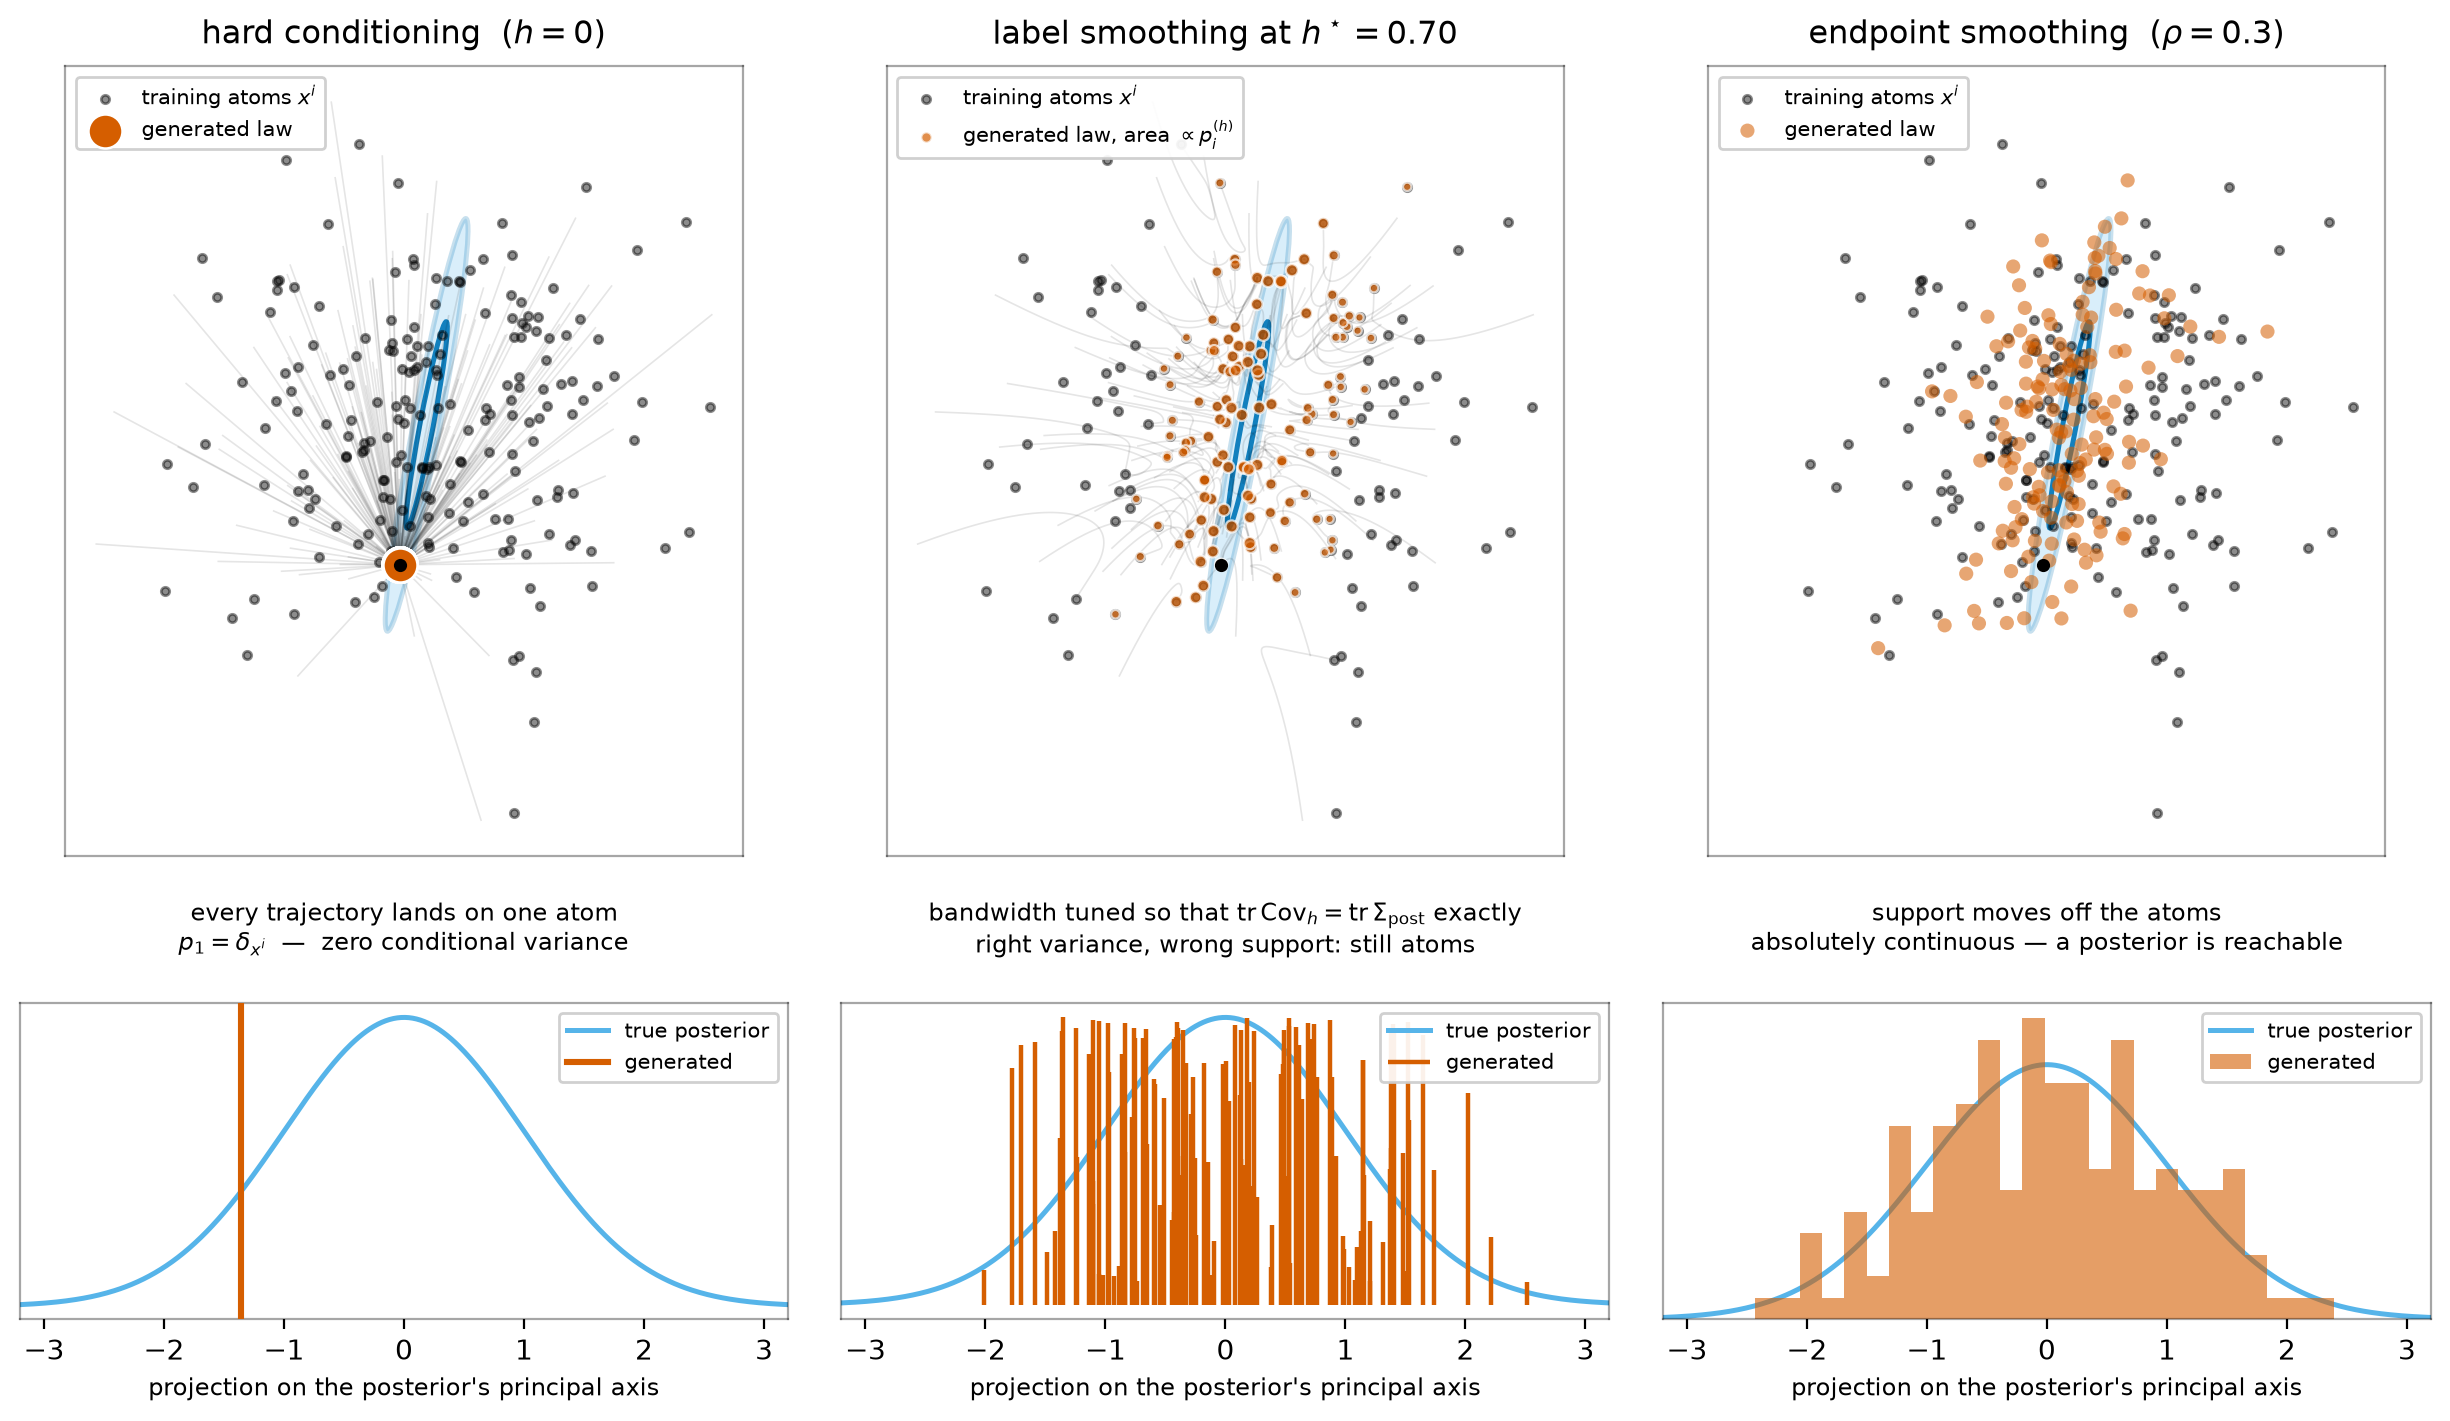
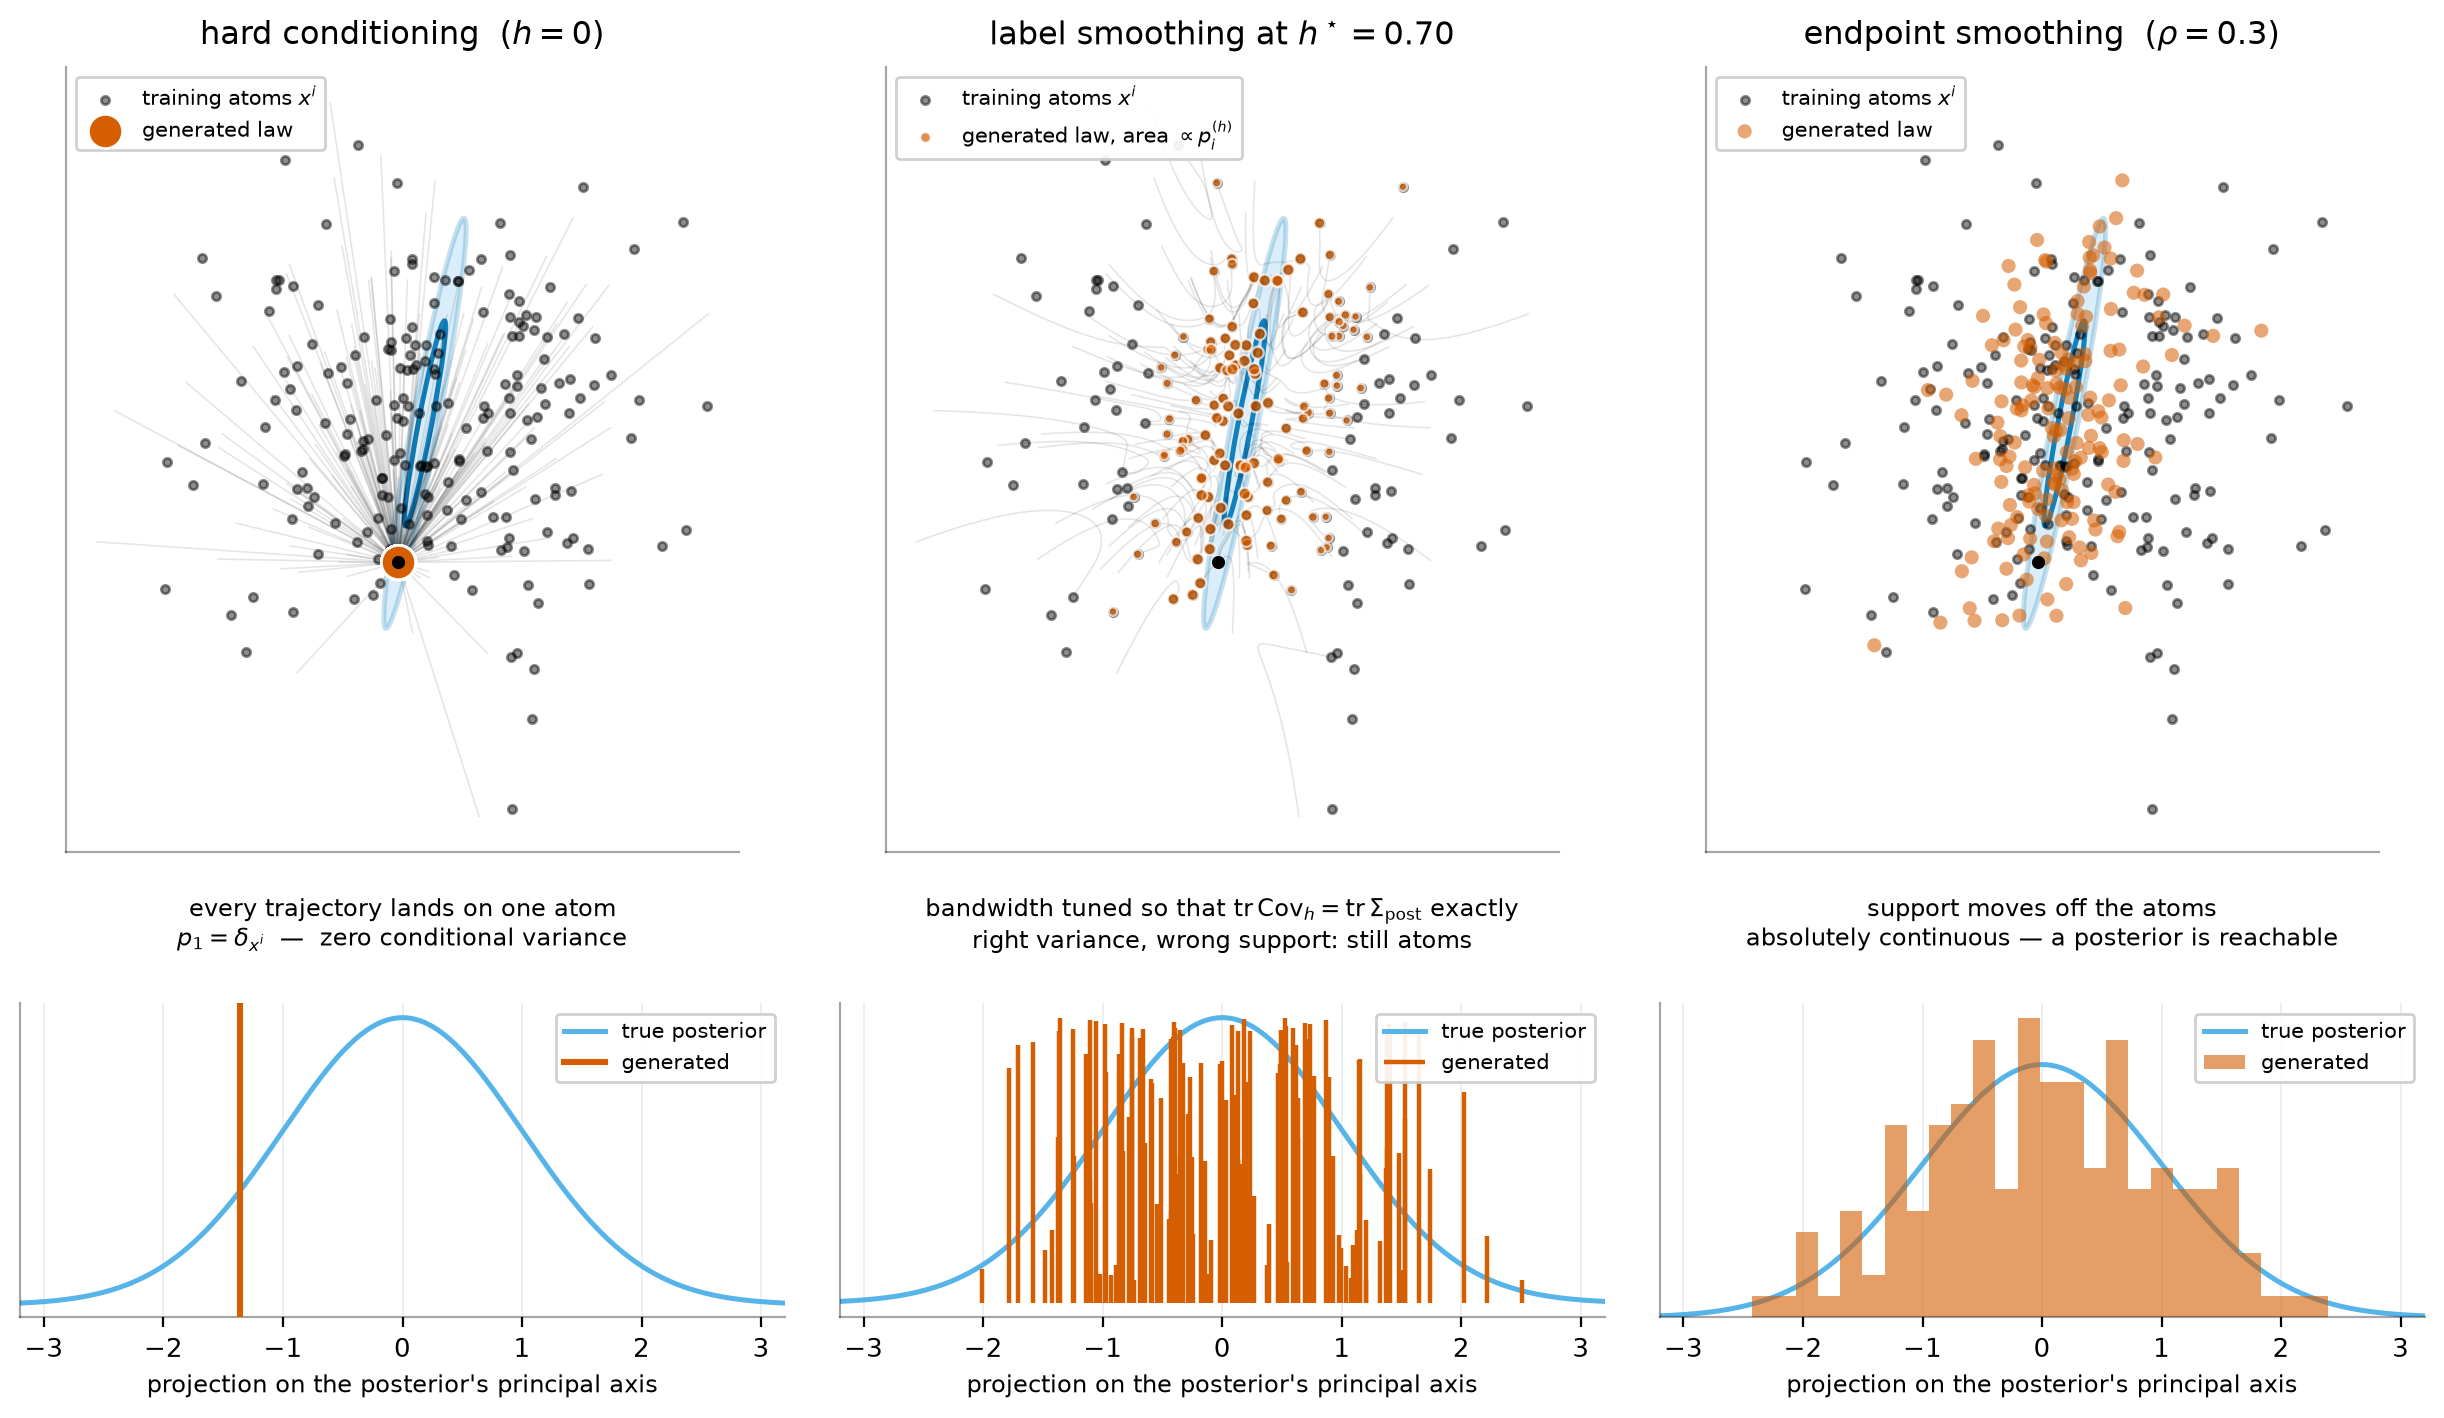
Put the mechanism and factorisation figure scripts on the shared style
Both need torch, so they were not touched with the others; torch runs here with uv's
PyPI wheel. They reproduce their numbers (h* = 0.7030, tr Cov_h = tr Sigma_post = 1.0040)
and keep their framed legends. Both regenerated figures were read by eye.

beta_trajectory.py stays as it was. It re-evaluates the DDPM checkpoints, which are not kept,
and when they are missing it overwrites results/exp3/_cifar_ddpm/beta_trajectory.json and
its figure with empty ones; running it to migrate it did that, and both were restored from
git. The README says not to run it here.

diff --git a/scripts/make_mechanism_figure.py b/scripts/make_mechanism_figure.py
@@ -40,6 +40,16 @@ import torch
 from src.metrics.kernel_theory import kernel_field, kernel_weights, kernel_moments
 from src.problems.linear_gaussian import LinearGaussianProblem
 
+import sys as _sys
+from pathlib import Path as _Path
+
+_sys.path.insert(0, str(_Path(__file__).resolve().parents[1]))
+from scripts.figstyle import use_paper_style  # noqa: E402
+
+use_paper_style()
+# legends here sit over data and were laid out with a frame
+plt.rcParams.update({"legend.frameon": True, "legend.framealpha": 0.92})
+
 OUT = Path("paper/figures/fig_mechanism.png")
 OI = {"black": "#000000", "sky": "#56B4E9", "blue": "#0072B2",
       "vermillion": "#D55E00", "orange": "#E69F00", "green": "#009E73"}

diff --git a/scripts/make_factorisation_figure.py b/scripts/make_factorisation_figure.py
@@ -36,6 +36,16 @@ import torch
 
 from src.problems.linear_gaussian import LinearGaussianProblem
 
+import sys as _sys
+from pathlib import Path as _Path
+
+_sys.path.insert(0, str(_Path(__file__).resolve().parents[1]))
+from scripts.figstyle import use_paper_style  # noqa: E402
+
+use_paper_style()
+# legends here sit over data and were laid out with a frame
+plt.rcParams.update({"legend.frameon": True, "legend.framealpha": 0.92})
+
 OUT = Path("paper/figures/fig_factorisation.png")
 OI = {"black": "#000000", "sky": "#56B4E9", "blue": "#0072B2",
       "vermillion": "#D55E00", "orange": "#E69F00"}

diff --git a/paper/README.md b/paper/README.md
@@ -115,14 +115,18 @@ gives byte-identical PNGs. Run scripts from the repository root as modules
 (`uv run python -m scripts.make_flow_portraits`).
 
 Scripts on `figstyle.py` (call `use_paper_style()`): `make_paper_figures`, `make_theory_figures`,
-`make_p1p4_figure`, `make_posterior_distance_figure`, `make_seed_split_figure` and the flow / image /
-EXP-2 / expansion scripts above. The last four of these predate the shared style and their
-annotations were laid out on framed legends and default font sizes, so they keep those two
-settings after the call. Still on their own default styling (their PNGs are unchanged): `make_mechanism_figure`,
-`make_factorisation_figure`, `beta_trajectory`, `visualize_collapse_2d`, `visualize_gmm_2d`, the `analyze_*.py` plots, and the MNIST/CIFAR-10 training grids (`fig_exp3_grid*`, `fig_exp3_cifar_grid*`),
-which are written by `src/train_exp3.py`. `fig_posterior_distance.png` is written only by
+`make_p1p4_figure`, `make_posterior_distance_figure`, `make_seed_split_figure`, `make_mechanism_figure`,
+`make_factorisation_figure` and the flow / image / EXP-2 / expansion scripts above. The ones that predate
+the shared style had their annotations laid out on framed legends (and, for two, default font sizes), so
+they keep those settings after the call; without them legends print over data. Not on it:
+`beta_trajectory.py` (it re-evaluates the DDPM checkpoints, which are not kept, and overwrites its
+JSON and figure with empty ones when they are missing: do not run it here), `visualize_collapse_2d`,
+`visualize_gmm_2d` (they write to `results/` and their output is copied), the `analyze_*.py` plots,
+and the MNIST/CIFAR-10 training grids (`fig_exp3_grid*`, `fig_exp3_cifar_grid*`), written by
+`src/train_exp3.py`. `fig_posterior_distance.png` is written only by
 `make_posterior_distance_figure.py`; `make_paper_figures.py` used to overwrite it with an older two-panel
-version and no longer does.
+version and no longer does. Scripts that import torch run with
+`uv run --with torch ...`.
 
 ### Checking the body length without pdflatex
 
